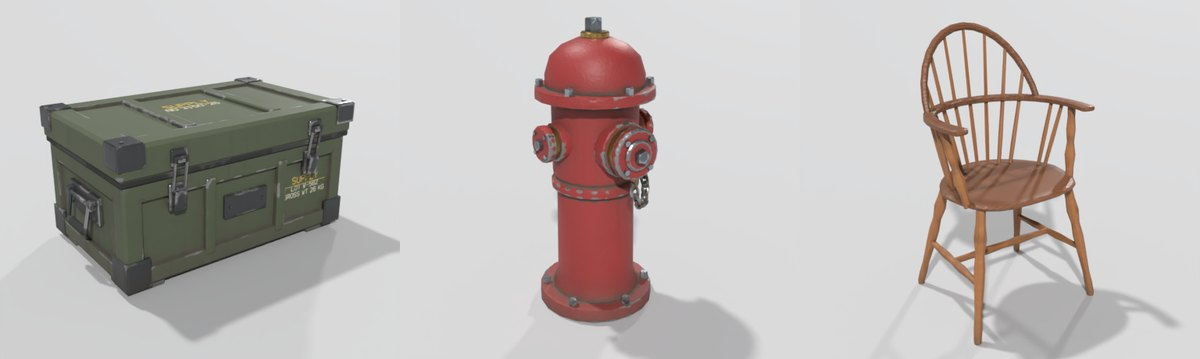
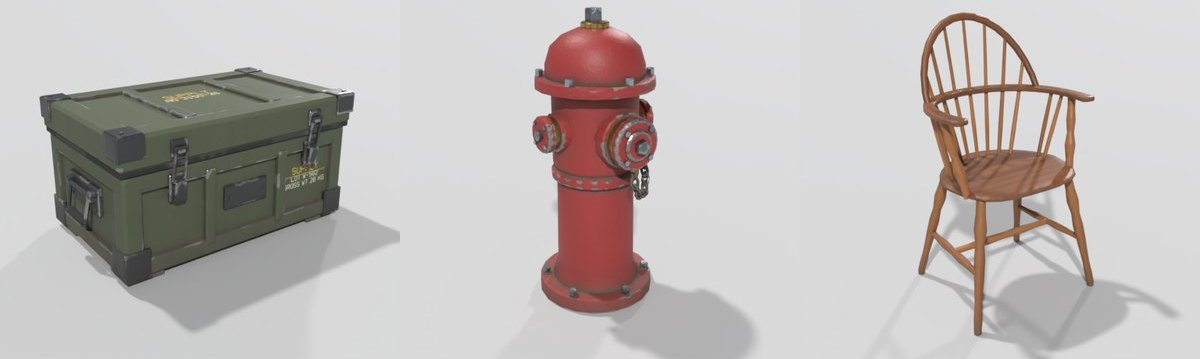
README: the repainted props, and where the chair now stands
The front page said both of this project's chairs lose every blind
verdict to a stock agent's, and showed round six's props.

- The picture is round six's three scripts delivered again with round
  seven's surfaces (same meshes).
- Under the comparison table: against the stock agent's props the
  repainted crate and hydrant still win (12 of 12 each over two
  measurements) and the chair is about even (7 of 11); every verdict
  prefers its wood, and the ones it loses fault its shape. The table's
  own rows stay as measured in round six.
- The install row names three.js beside Godot.
- docs/verification_and_limits.md: the list of where the project is
  behind a stock agent, rewritten from round seven's results (the chair
  is about even, on its shape; the default mode's chair has not been
  judged again), and two limits of the generated surfaces.

This commit goes with the surfaces commit: if the surfaces go, this
goes with them.

Claude-Session: https://claude.ai/code/session_013pzuDJoL8sRM1NgH83pfhR

diff --git a/docs/verification_and_limits.md b/docs/verification_and_limits.md
@@ -178,6 +178,9 @@ the MCP Apps SDK's own host bridge in Chromium, not inside a running Antigravity
   index of refraction, sheen, specular).
 - Transmission is thin-surface only: there is no volume (thickness, attenuation).
 - Only the emissive map and the albedo alpha channel were added as textures; the other new parameters are factors.
+- Generated surfaces (the textures painted when no image model is used) size wear, relief and grime by how wide a
+  part is across: a rod's diameter, a plate's width. A loft carries one radius per section, so a wide, thin lofted
+  plank is treated as narrow. Parts under 3 cm across collect grime only where occlusion is deep.
 - In a package only `<asset>.glb` (LOD0) is self-contained. `<asset>_LOD<n>.glb` reference the maps in the
   package's `textures/`, so a package is copied or imported as a directory. A map in a format glTF cannot reference
   (anything but PNG or JPEG) is still embedded in every LOD file.
@@ -282,10 +285,16 @@ first three rows, 12 in the last three.
 
 ### Where this project is behind a stock agent with Blender
 
-From [`benchmarks/ROUND_SIX.md`](../benchmarks/ROUND_SIX.md), "What is still worse": first builds take minutes
-and script mode is not faster or cheaper than the default; both of this project's chairs lose every blind verdict
-to a stock agent's chair, because of the surface this project paints on rods and free-form parts; image-model
-textures are not wired into script mode; and the check before a script runs is not a sandbox.
+From [`benchmarks/ROUND_SEVEN.md`](../benchmarks/ROUND_SEVEN.md) and
+[`benchmarks/ROUND_SIX.md`](../benchmarks/ROUND_SIX.md):
+
+- First builds take minutes, and script mode is not faster or cheaper than the default.
+- The wooden chair is about even with a stock agent's chair, not ahead of it (7 of 11 blind verdicts). Its
+  generated wood is preferred in every verdict; what loses the others is its shape: turned legs and spindles built
+  as few-sided rods read as lumpy. The default mode's chair has not been judged again since round six, when it
+  lost every verdict.
+- Image-model textures are not wired into script mode.
+- The check before a script runs is not a sandbox.
 
 ## Running the tests
 

diff --git a/README.md b/README.md
@@ -64,12 +64,16 @@ With React Three Fiber: `<MilitarySupplyCrate />` in a `<Canvas>`, from `./agy3d
 | Time to a package, minutes | 4 to 5 | 4 to 5 | 6 to 10 |
 | Blind verdicts won against the stock agent: crate / hydrant / chair | 6 of 6 / 6 of 6 / 0 of 6 | 6 of 6 / 5 of 5 / 0 of 6 | |
 | A change request finished on its own | 2 of 3 | 3 of 3 | 1 of 3; 2 stopped at their limit |
-| Installed into a Godot project and checked there by one command | yes | yes | not offered |
+| Installed into a Godot or three.js project and checked there by one command | yes | yes | not offered |
 
 Three briefs; our runs are from round six, the stock agent's from round five, one or two runs each. Looks were
-judged blind by a general model, six times per pair. Our chairs lose every verdict; for the script-mode chair the cause is
-the surface we paint, not the shape. Details and tokens: [round six](benchmarks/ROUND_SIX.md),
-[round five](benchmarks/ROUND_FIVE.md).
+judged blind by a general model, six times per pair. Both of our chairs lost every verdict then, because of the
+surface this project painted on them.
+
+Round seven repainted the script-mode props without touching their meshes. The crate and the hydrant still win
+(12 of 12 each). The chair is now about even with the stock agent's (7 of 11): every verdict prefers its wood, and
+the ones it loses fault its shape. Details: [round seven](benchmarks/ROUND_SEVEN.md),
+[round six](benchmarks/ROUND_SIX.md), [round five](benchmarks/ROUND_FIVE.md).
 
 ## Try it
 
